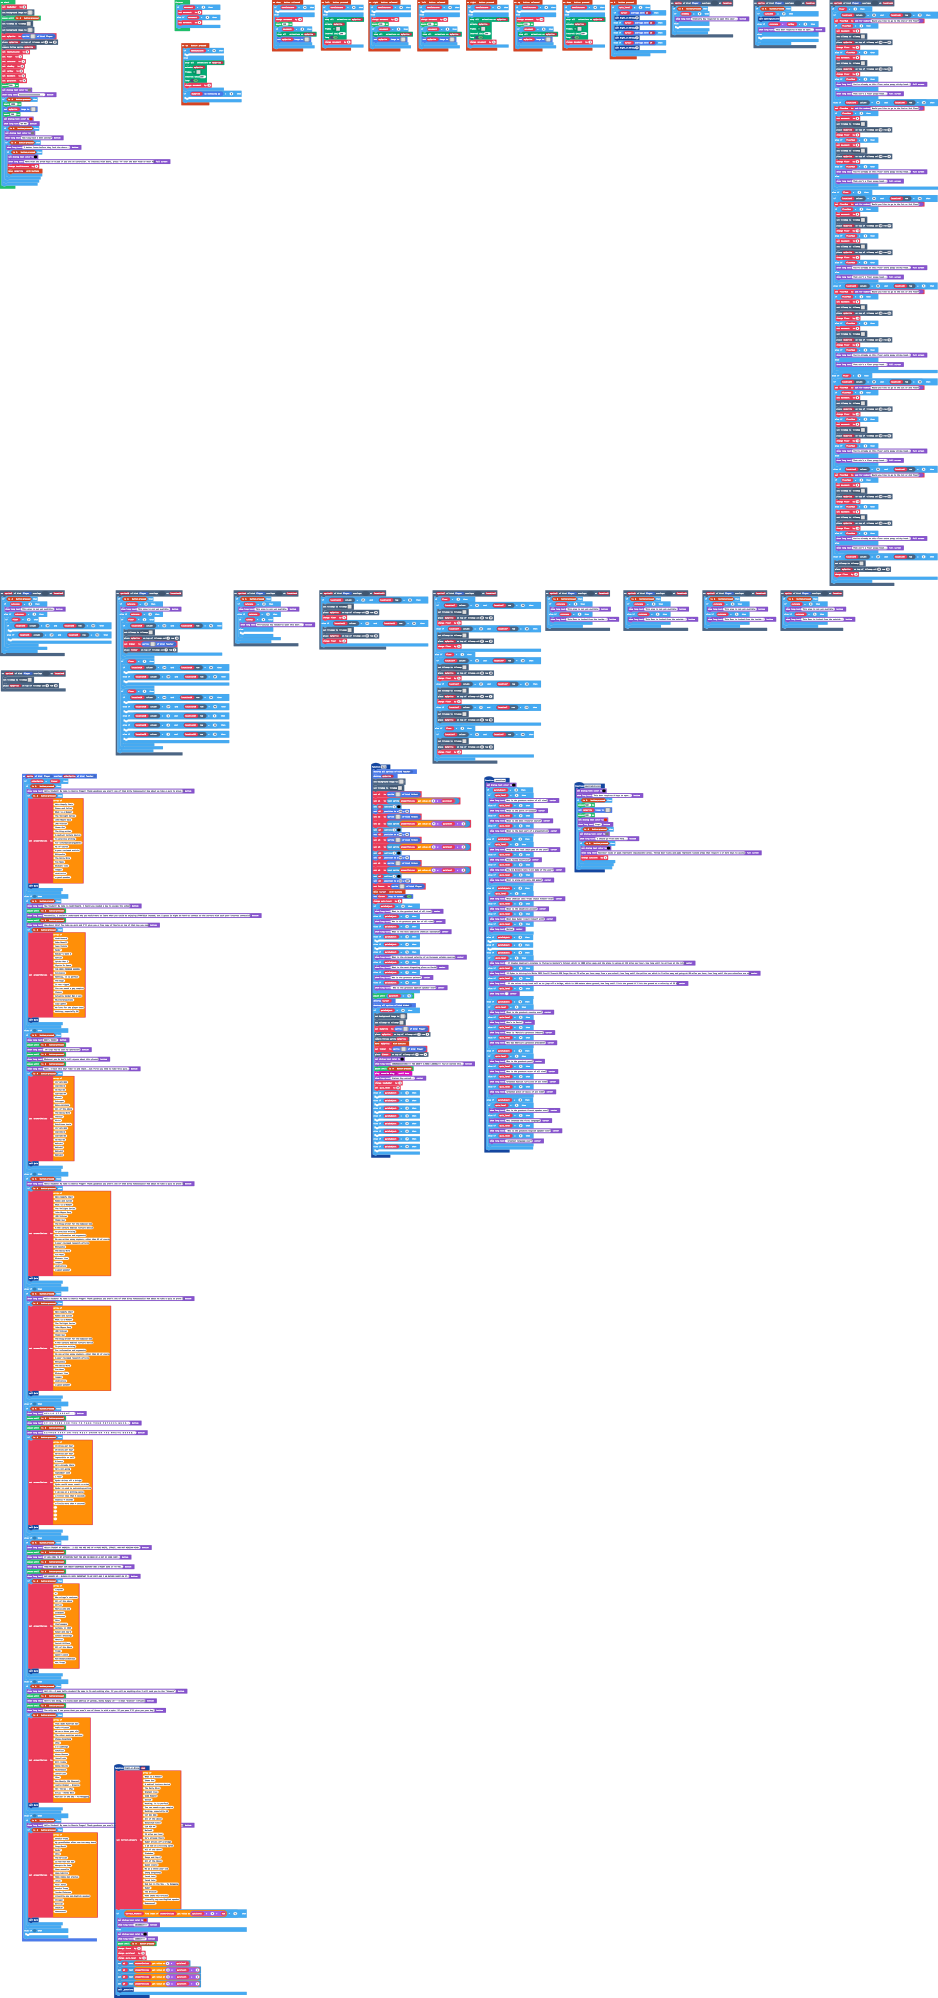
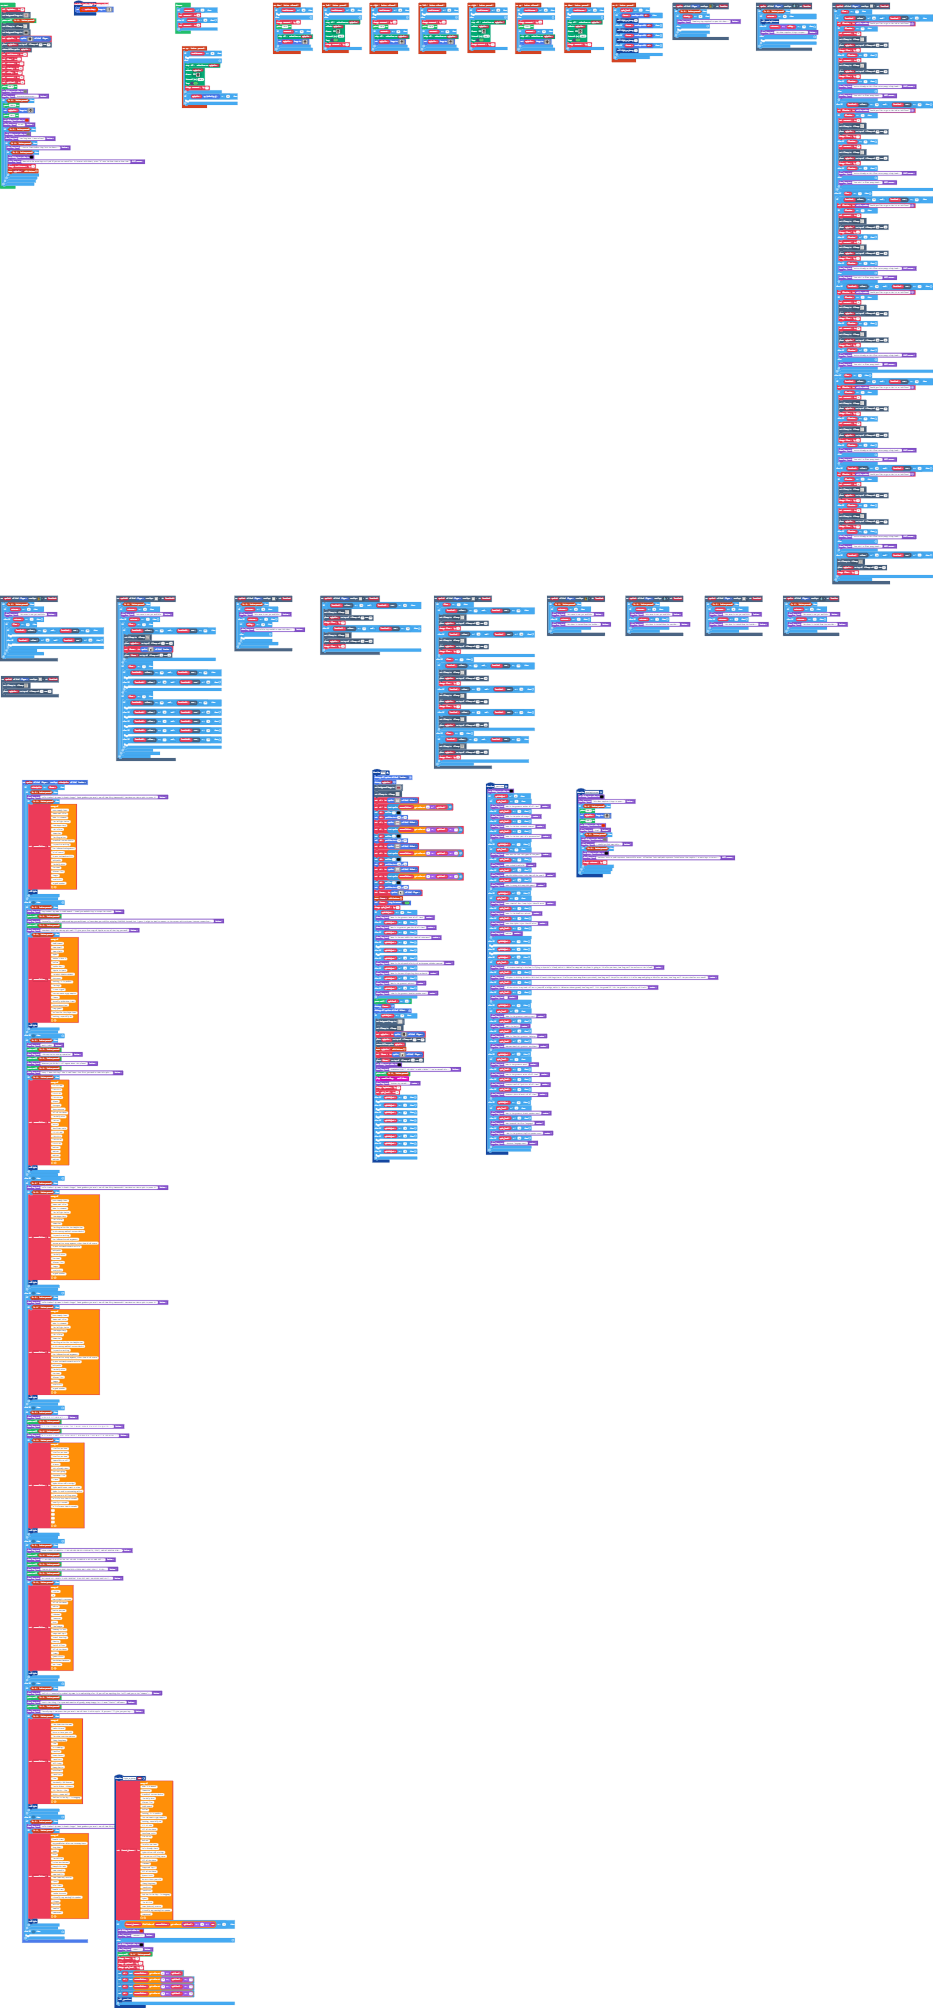
Update main.blocks, main.ts, tilemap.g.jres, tilemap.g.ts, images.g.jres, images.g.ts

diff --git a/tilemap.g.ts b/tilemap.g.ts
@@ -3287,25 +3287,6 @@ namespace myTiles {
 . . . . . . . . . . . . . . . . 
 . . . . . . . . . . . . . . . . 
 `, [myTiles.transparency16], TileScale.Sixteen);
-            case "level101":
[1 lines of base64/hex data omitted]
-. . . . . . . . . . . . . . . . 
-. . . . . . . . . . . . . . . . 
-. . . . . . . . . . . . . . . . 
-. . . . . . . . . . . . . . . . 
-. . . . . . . 2 . . . . . . . . 
-. . . . . . . . . . . . . . . . 
-. . . . . . . . . . . . . . . . 
-. . . . . . . . . . . . . . . . 
-. . . . . . . . . . . . . . . . 
-. . . . . . . . . . . . . . . . 
-. . . . . . . . . . . . . . . . 
-. . . . . . . . . . . . . . . . 
-. . . . . . . . . . . . . . . . 
-. . . . . . . . . . . . . . . . 
-. . . . . . . . . . . . . . . . 
-. . . . . . . . . . . . . . . . 
-`, [myTiles.transparency16,myTiles.tile65,myTiles.tile66,myTiles.tile69,myTiles.tile70,myTiles.tile78,myTiles.tile91,myTiles.tile92,myTiles.tile93,myTiles.tile95,myTiles.tile96,myTiles.tile1,myTiles.tile35,myTiles.tile12,myTiles.tile18,myTiles.tile19,myTiles.tile16,myTiles.tile63], TileScale.Sixteen);
             case "level131":
             case "level131":return tiles.createTilemap(hex`1000100000000000000000000000000000000000000000000000000000000000000000000000000000000000000000000000000000000000000000000000000000000000000000000000000000000000000000000000000000000000000000000000000000000000000000000000000000000000000000000000000000000000000000000000000000000000000000000000000000000000000000000000000000000000000000000000000000000000000000000000000000000000000000000000000000000000000000000000000000000000000000000000000000000000000000000000000000000000000000000000000000000000000000000000000000000000`, img`
 . . . . . . . . . . . . . . . . 
@@ -3420,6 +3401,25 @@ namespace myTiles {
 . . . . . . . . . . . . . . . . 
 . . . . . . . . . . . . . . . . 
 `, [myTiles.transparency16,sprites.castle.tileGrass2], TileScale.Sixteen);
+            case "level101":
[1 lines of base64/hex data omitted]
+. . . . . . . . . . . . . . . . 
+. . . . . . . . . . . . . . . . 
+. . . . . . . . . . . . . . . . 
+. . . . . . . . . . . . . . . . 
+. . . . . . . 2 . . . . . . . . 
+. . . . . . . . . . . . . . . . 
+. . . . . . . . . . . . . . . . 
+. . . . . . . . . . . . . . . . 
+. . . . . . . . . . . . . . . . 
+. . . . . . . . . . . . . . . . 
+. . . . . . . . . . . . . . . . 
+. . . . . . . . . . . . . . . . 
+. . . . . . . . . . . . . . . . 
+. . . . . . . . . . . . . . . . 
+. . . . . . . . . . . . . . . . 
+. . . . . . . . . . . . . . . . 
+`, [myTiles.transparency16,myTiles.tile65,myTiles.tile66,myTiles.tile69,myTiles.tile70,myTiles.tile78,myTiles.tile91,myTiles.tile92,myTiles.tile93,myTiles.tile95,myTiles.tile96,myTiles.tile1,myTiles.tile35,myTiles.tile12,myTiles.tile18,myTiles.tile19,myTiles.tile16,myTiles.tile63,myTiles.tile106,myTiles.tile107,myTiles.tile97,myTiles.tile98,myTiles.tile99,myTiles.tile100,myTiles.tile101,myTiles.tile102,myTiles.tile103,myTiles.tile104,myTiles.tile105,myTiles.tile108,myTiles.tile109,myTiles.tile110,myTiles.tile111,myTiles.tile112,myTiles.tile113], TileScale.Sixteen);
         }
         return null;
     })

diff --git a/images.g.ts b/images.g.ts
@@ -315,49 +315,6 @@ f . 3 . 3 . 3 . f . . f 2 . f .
 . f . . 3 . . f . . . f . . f . 
 . . f f f f f . . . . . f f . . 
 `;
-            case "image8":
-            case "myImage3":return img`
-....................
-..ffffffffffffffff..
-.f3333333322222f22f.
-f332222222222222f22f
-f322fffffffffff2f22f
-f32f...........ff22f
-f32f.f.f....f..ff22f
-f32f.fff...ff..ff22f
-f32f...f....f..ff22f
-f32f...f....f..ff22f
-f32f...f...fff.ff22f
-f32f...........ff22f
-f322fffffffffff2f22f
-f322222222222222f22f
-f322222222222222f22f
-f322222222222222f22f
-f332222222222222f22f
-f332222222222222f22f
-f332222222222222f22f
-f332222222222222f22f
-f332222222222222f22f
-f332222222222222f22f
-f332222222222222f22f
-f332222222222222f22f
-f332222222222222f22f
-f332222222222222f22f
-f332222222222222f22f
-f322222222222222f22f
-f322222222222222f22f
-f322222222222222f22f
-f322222222222222f22f
-f322222222222222f22f
-.f2222222222222f22f.
-..ffffffffffffffff..
-....................
-....................
-....................
-....................
-....................
-....................
-`;
             case "image2":
             case "Shawn":return img`
[1 lines of base64/hex data omitted]
@@ -546,6 +503,49 @@ fffffffffffffffffffffffffffffffffffffffffffffffffffff555555555555555555555555555
[3 lines of base64/hex data omitted]
+`;
+            case "image8":
+            case "myImage3":return img`
+....................
+..ffffffffffffffff..
+.f3333333322222f22f.
+f332222222222222f22f
+f322fffffffffff2f22f
+f32f...........ff22f
+f32f.f.f....f..ff22f
+f32f.fff...ff..ff22f
+f32f...f....f..ff22f
+f32f...f....f..ff22f
+f32f...f...fff.ff22f
+f32f...........ff22f
+f322fffffffffff2f22f
+f322222222222222f22f
+f322222222222222f22f
+f322222222222222f22f
+f332222222222222f22f
+f332222222222222f22f
+f332222222222222f22f
+f332222222222222f22f
+f332222222222222f22f
+f332222222222222f22f
+f332222222222222f22f
+f332222222222222f22f
+f332222222222222f22f
+f332222222222222f22f
+f332222222222222f22f
+f322222222222222f22f
+f322222222222222f22f
+f322222222222222f22f
+f322222222222222f22f
+f322222222222222f22f
+.f2222222222222f22f.
+..ffffffffffffffff..
+....................
+....................
+....................
+....................
+....................
+....................
 `;
         }
         return null;

diff --git a/main.ts b/main.ts
@@ -2044,6 +2044,10 @@ scene.onOverlapTile(SpriteKind.Player, assets.tile`myTile43`, function (sprite11
         Floor += -1
     }
 })
+function spritedump () {
+    let sprite_dump: Sprite = null
+    sprite_dump.setImage(assets.image`myImage3`)
+}
 let floorNum = 0
 let Simnar: Sprite = null
 let quizSubject = 0
